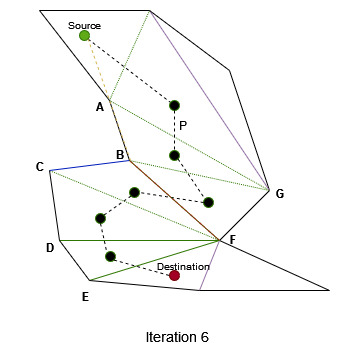
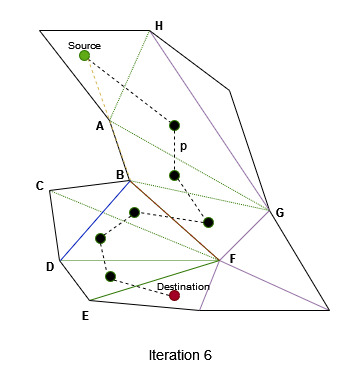
images edited for funnel

diff --git a/website/index.html b/website/index.html
@@ -182,7 +182,7 @@
         <br class="newline"/>  
         <center>
         <figure>
-          <img src="./images/Funnel_Base.jpg" width = "20%"/>
+          <img src="./images/F_Basic.jpg" width = "20%"/>
           <figcaption>Basic Example</figcaption>
         </figure>
         </center>
@@ -223,15 +223,15 @@
       </center>  
       <br class="newline"/> 
       <p class="noindent" align="justify">
-        <b>Iteration 5: </b> In order to handle the next crossed edge (CF), it is not possible to move the right boundary (as it is at the right most position compared to the apex). The only way to continue the execution is to move the left boundary. As we move this boundary it will be coincide over the right boundary. So the coincide segment will be a part of the solution. This shared segment is the tail of our funnel and its endpoint (B) which is closer to the destination is the new apex. 
+        <b>Iteration 5: </b> In order to handle the next crossed edge (CF), it is not possible to move the right boundary (as it is at the right most position compared to the apex). The only way to continue the execution is to move the left boundary. As we move this boundary it will be coincide over the right boundary. So the coincide segment will be a part of the solution. This shared segment is the tail of our funnel and its endpoint (B) which is closer to the destination is the new apex. Now we got new left boundary and new right boundary;
       </p>
       <br class="newline"/>   
       <center>
         <img src="./images/F_it5.jpg" width="20%"/>
       </center>  
-      <br class="newline"/> 
+      <br class="newline"/>  
       <p class="noindent" align="justify">
-        <b>Iteration 6: (pas une itération) </b> Now we got new left boundary and new right boundary; As you can see there is a possibility to move the right boundary to tighten the new funnel by considering the edge CF.
+        <b>Iteration 6: </b> Next crossed edge is DF and we can again move the right boundary to tighten the funnel (from C to D).
       </p>
       <br class="newline"/>   
       <center>
@@ -239,7 +239,7 @@
       </center>  
       <br class="newline"/> 
       <p class="noindent" align="justify">
-        <b>Iteration 7: </b> Next crossed edge is DF and we can again move the right boundary to tighten the funnel .
+        <b>Iteration 7: </b> We can once again move the right boundary to tighten the funnel and handle the crossed edge EF (from D to E).
       </p>
       <br class="newline"/>   
       <center>
@@ -247,7 +247,7 @@
       </center>  
       <br class="newline"/> 
       <p class="noindent" align="justify">
-        <b>Iteration 8: </b> We can once again move the right boundary to tighten the funnel and handle the crossed edge EF.
+        <b>Iteration 8: </b> The final step is particular : <br/>Once we reached the last edge of our path, we try to connect the apex directly to the destination to create a shortest path. However, if it goes to the left of the left boundary, or the right of the right boundary (thereby going out of the polygon), then we add the edges of that boundary to the tail and connect the last point to the destination thus forming our shortest path. In the case of this example, there is a straight line going from the apex to the destination.
       </p>
       <br class="newline"/>   
       <center>
@@ -255,19 +255,11 @@
       </center>  
       <br class="newline"/> 
       <p class="noindent" align="justify">
-        <b>Iteration 9: </b> The final step is particular : <br/>Once we reached the last edge of our path, we try to connect the apex directly to the destination to create a shortest path. However, if it goes to the left of the left boundary, or the right of the right boundary (thereby going out of the polygon), then we add the edges of that boundary to the tail and connect the last point to the destination thus forming our shortest path. In the case of this example, there is a straight line going from the apex to the destination.
-      </p>
-      <br class="newline"/>   
-      <center>
-        <img src="./images/F_it9.jpg" width="20%"/>
-      </center>  
-      <br class="newline"/> 
-      <p class="noindent" align="justify">
         You can see the final solution of funnel algorithm below:
       </p>
       <br class="newline"/>   
       <center>
-        <img src="./images/F_sol.jpg" width="20%"/>
+        <img src="./images/F_Sol.jpg" width="20%"/>
       </center>  
       <br class="newline"/> 
 
